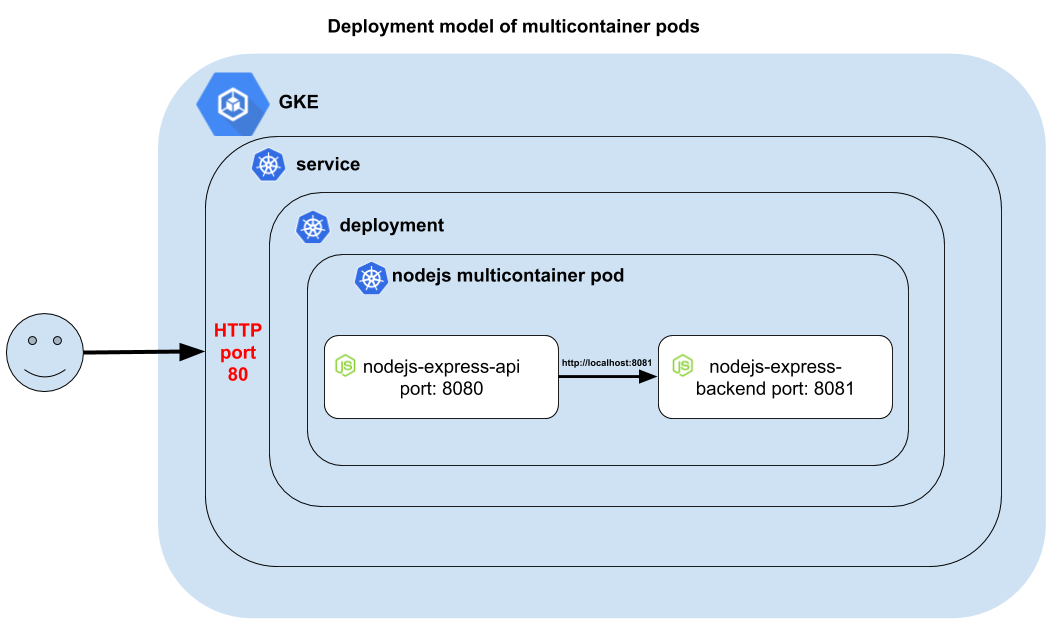
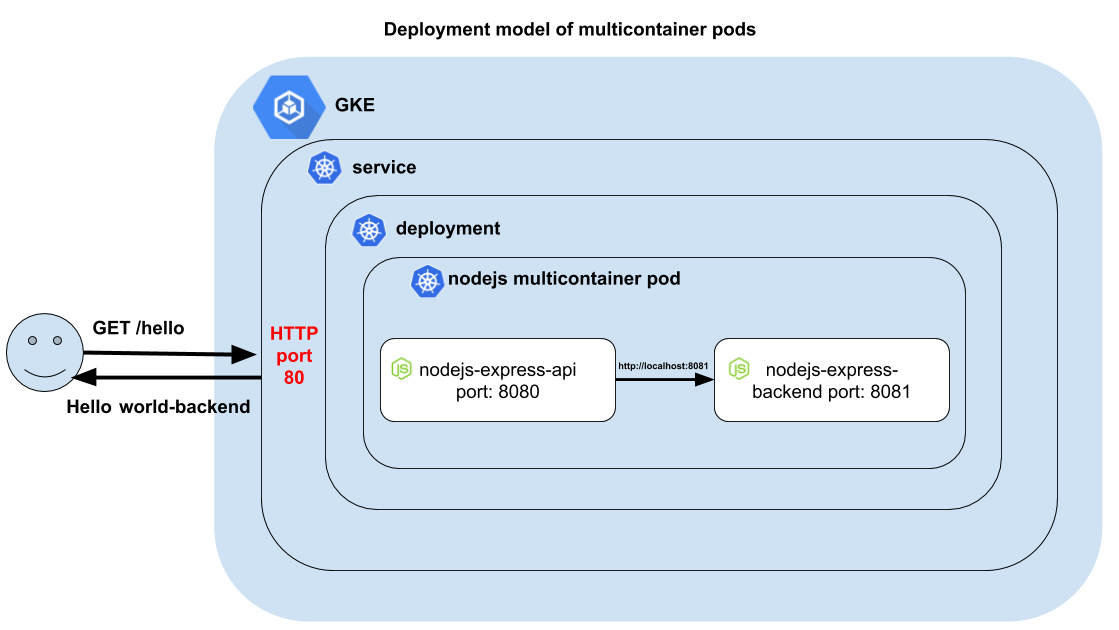
adding more context and response in png.

diff --git a/README.md b/README.md
@@ -1,26 +1,54 @@
-Kubernetes multicontainer Node.js pod on GKE
+Kubernetes multicontainer NodeJS API pod on GKE
 ===============================================================
 
-### Why do you need multicontainer pods?
-You will probably need this deployment model if you want to specialize your code. For instance, two http containers:
+In this tutorial I'll be walking you through the creation of a multicontainer pod with two apps: a NodeJS REST API, and another Node.js API that serves as the backend. Everything running in Kubernetes. And more specifically, on GKE (Google Kubernetes Engine).
 
-1. **For the execution of certain API Management policies** like validate a token, apply spike arrest, apply quota restrictions, etc.
-
-2. **For the execution of the business rules** perhaps payload transformations, mashups (calling multiple APIs), etc.
-
-All this without having to run two separate clusters and a fully managed Kubernetes cluster. Which means, if inside this multicontainer pod something fails, be it the api or the backend apps, k8s then would detect the failure and replace the entire pod.
+This tutorial is based on the awesome [Deploying a containerized web application tutorial](https://cloud.google.com/kubernetes-engine/docs/tutorials/hello-app), which introduced me to Kubernetes. However, as I'll be leveraging multicontainer pod deployment model in future tutorials, I decided to write one with the purpose of augmenting it.
 
 ![](./deployment-model-multicontainer-pods.png)
 
-You can run these steps in Kubernetes GCP free-tier. However, I recommend running on n1-standard-1 machines. I noticeds some pods getting into errors because of the lack of hardware resources.
+
+### Why do you need multicontainer pods?
+There are multiple reasons for this. Keep on reading to find them.
+
+#### TL;DR
+This tutorial has two NodeJS Express HTTP containers that aim to separate responsibilites of API Management and backend (business rules):
+
+1. **For the execution of certain API Management policies** like validate a token, apply spike arrest, apply quota restrictions, etc. In the future Apigee Microgateway. Stay tuned.
+
+2. **For the execution of the business rules** perhaps payload transformations, mashups (calling multiple APIs and consolidating responses), etc.
+
+Let me expand on the above, as I'll build on top of this tutorial for future content.
+
+* **To add API Management capabilities.** In my case, I'm using a plain NodeJS app, for the sake of keeping this tutorial as simple as possible and reusable. However, you can use anything more sophisticated. For instance, [Apigee Microgateway](https://docs.apigee.com/microgateway/content/edge-microgateway-home), which you can also run on Docker. Full disclosure, I work for Google Apigee, hence my familiarity with this product.
+* **To add transformation/mediation capabilities without increasing the complexity of my current codebase to either API management or Transformation/mediation layers**. API Management is a separate responsibility, hence it should be separate container from transformation and mediation capabilities (another container). 
+* **To leverage the same k8s cluster as of my REST API.** Adding transformation/mediation NodeJS app should not increase the complexity of my infrastructure (my cluster). If the REST API and transformation/mediation NodeJS API coexist in the same pod, Kubernetes will manage the pod and keep both containers healthy without adding a separate cluster for both containers. Some purists might be against this model, but I won't into that conversation at this point.
+
+You can run these steps in Kubernetes [GCP free-tier](https://cloud.google.com/free) for a few bucks covered by the 300 credit. I recommend running on n1-standard-1 machines, since I noticed some pods getting into errors because of the lack of running Kubernetes on small footprint hardware such as micro VMs (06 GBs) ¯\_(ツ)_/¯.
 
 ### Step 0: Clone this repo
+First things first, clone this repo either on your laptop or GCP CloudShell.
 ```
 git clone https://github.com/dzuluaga/kubernetes-multicontainer-pod-lab.git
 ```
 
+**The folder structure:**
+```bash
+├── kubernetes_nodejs_deployment.yaml -> deployment descript
+├── nodejs-express-api -> REST API
+│   ├── Dockerfile
+│   ├── node_modules
+│   ├── package.json
+│   └── server.js
+└── nodejs-express-backend -> Transformation/mediation API
+    ├── Dockerfile
+    ├── package.json
+    └── server.js
+```
+
 ### Step 1: Test nodejs-express-api locally
-Open one terminal window to start the server.
+Open one terminal window to start NodeJS Express REST API server. This API will be exposed by Kubernetes LoadBalancer component through port 80.
+
 ```bash
 cd nodejs-express-api
 node server.js
@@ -67,6 +95,7 @@ gcloud container clusters create multi-container-pod --num-nodes=3 --machine-typ
 ```
 
 ### Step 5: Set PROJECT_ID environment variable
+This variable will be referenced from next steps. So, it's useful to keep it as variable instead of a hardcoded value.
 ```
 export PROJECT_ID="$(gcloud config get-value project -q)"
 ```
@@ -77,7 +106,7 @@ cd nodejs-express-api
 docker build -t gcr.io/${PROJECT_ID}/nodejs-express-api:v1 .
 ```
 
-Push Docker build to Google Container Registry:
+Push Docker build to your own private [Google Container Registry in GCP](https://cloud.google.com/container-registry):
 ```
 gcloud docker -- push gcr.io/${PROJECT_ID}/nodejs-express-api:v1
 ```
@@ -101,10 +130,7 @@ $ kubectl apply -f kubernetes_nodejs_deployment.yaml
 ```
 
 ### Step 9: Expose port
-
-```bash
-$ kubectl expose deployment multicontainer-nodejs-deployment --type=LoadBalancer --port=80 --target-port=8080
-```
+This step will only expose port 8080 from nodejs-express-api container through standard http port 80, so it's accessible through your browser from a public IP address.
 
 ```bash
 $ kubectl expose deployment multicontainer-nodejs-deployment --type=LoadBalancer --port=80 --target-port=8080
@@ -121,6 +147,7 @@ multicontainer-nodejs-deployment   LoadBalancer   10.35.249.82   35.230.95.143  
 ```
 
 ### Step 10: Test access from nodejs-api to nodejs-backend
+From command get the public IP address and access your nodejs-express-api using a curl command. You can use your browser.
 
 ```
 $ curl 35.230.63.8/hello
@@ -131,6 +158,26 @@ Hello world-backend
 ```
 
 This response validates that nodejs-api can call nodejs-backend.
+
+### Step 11: Scale your application
+You can increase the number of replicas of your app by using `kubectl scale` command. Increase 5 more replicas of your multicontainer pod.
+
+```
+$ scale deployment multicontainer-nodejs-deployment --replicas=6
+deployment "multicontainer-nodejs-deployment" scaled
+
+$ kubectl get pods
+NAME                                                READY     STATUS    RESTARTS   AGE
+multicontainer-nodejs-deployment-66b758855c-6h27v   2/2       Running   0          18h
+multicontainer-nodejs-deployment-66b758855c-9fpx6   2/2       Running   0          18h
+multicontainer-nodejs-deployment-66b758855c-kb67r   2/2       Running   0          18h
+multicontainer-nodejs-deployment-66b758855c-mnpsn   2/2       Running   0          8s
+multicontainer-nodejs-deployment-66b758855c-nzjjp   2/2       Running   0          8s
+multicontainer-nodejs-deployment-66b758855c-tsz4h   2/2       Running   0          8s
+```
+
+### Step 12: Let me know your thoughts
+I want to know your feedback! You can reach  out to me on twitter [@dzuluaga](http://www.twitter.com/dzuluaga).
 
 ### Troubleshooting
 
